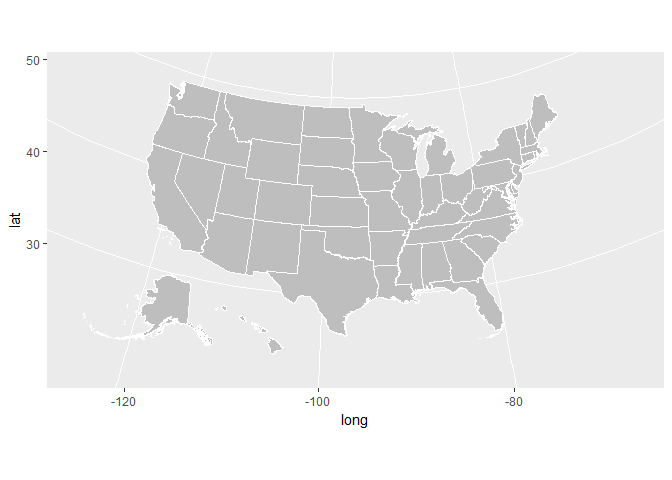
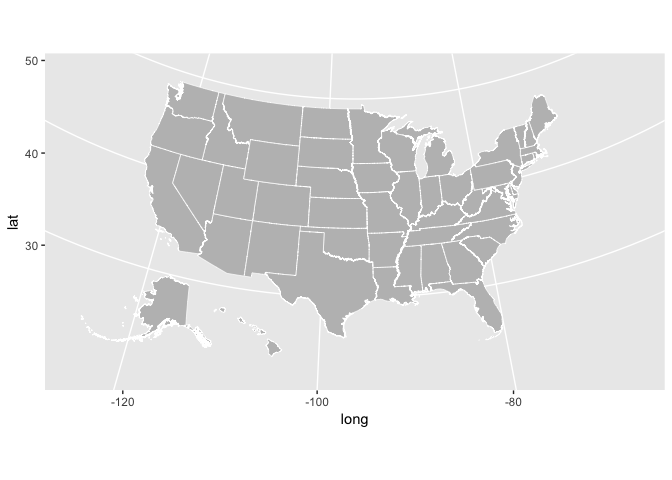
Add counties data and theme to README.Rmd.

diff --git a/README.md b/README.md
@@ -23,7 +23,7 @@ You can install the latest version of `uimapr` from GitHub:
 
 ``` r
 # install.packages(devtools)
-devtools::install_github('UrbanInstitute/uimapr')
+devtools::install_github("UrbanInstitute/uimapr")
 ```
 
 Usage
@@ -37,36 +37,104 @@ Usage
 The `states` and `counties` tibbles can be used with `geom_polygon()` and `coord_map()` to create base maps of the continental United States, with Alaska and Hawaii displayed as insets:
 
 ``` r
-library(ggplot2)
-library(dplyr)
-library(tibble)
-library(magrittr)
+library(tidyverse)
 library(uimapr)
 
 states %>%
   ggplot(aes(long, lat, group = group)) +
-   geom_polygon(fill = "grey", color = "#ffffff", size = 0.25) +
-   coord_map(projection = "albers", lat0 = 39, lat1 = 45)
+    geom_polygon(fill = "grey", color = "#ffffff", size = 0.25) +
+    coord_map(projection = "albers", lat0 = 39, lat1 = 45)
 ```
 
 ![](README_files/figure-markdown_github/blank-state-1.png)
 
+``` r
+counties %>%
+  ggplot(aes(long, lat, group = group)) +
+    geom_polygon(fill = "grey", color = "#ffffff", size = 0.05) +
+    coord_map(projection = "albers", lat0 = 39, lat1 = 45)
+```
+
+![](README_files/figure-markdown_github/blank-county-1.png)
+
 Merging Data
 ------------
 
-The `states` and `counties` tibbles include various identifiers to make merging data easy, which can then be piped into `ggplot2` to create a choropleth map:
+The `states` and `counties` tibbles include various identifiers to simplify merging data. The states `states` tibble contains `state_fips`, `state_abbv`, and `state_name`. The `counties` tibble contains `county_fips`, `state_abbv`, `state_fips`, `county_name`, and `state_name`. Both tibbles can be piped into `ggplot2` to create a choropleth map.
 
 ``` r
 USArrests %>%
-  rownames_to_column('state_name') %>%
+  rownames_to_column("state_name") %>%
   select(state_name, Murder) %>%
-  left_join(states, by = 'state_name') %>%
+  left_join(states, by = "state_name") %>%
   ggplot(aes(long, lat, group = group, fill = Murder)) +
-   geom_polygon(color = "#ffffff") +
-   coord_map(projection = "albers", lat0 = 39, lat1 = 45)
+    geom_polygon(color = "#ffffff") +
+    coord_map(projection = "albers", lat0 = 39, lat1 = 45)
 ```
 
 ![](README_files/figure-markdown_github/us-choropleth-1.png)
+
+``` r
+household_data <- left_join(countydata, counties, by = "county_fips")
+
+anti_join(countydata, counties, by = "county_fips")
+```
+
+    ## # A tibble: 2 x 5
+    ##    year county_fips hhpop horate medhhincome
+    ##   <dbl> <chr>       <dbl>  <dbl>       <dbl>
+    ## 1  2015 02270        2194  0.599       61900
+    ## 2  2015 46113        4721  0.621       46000
+
+``` r
+household_data %>%
+  ggplot(aes(long, lat, group = group, fill = medhhincome)) +
+    geom_polygon(color = "#ffffff", size = 0.05) +
+    coord_map(projection = "albers", lat0 = 39, lat1 = 45)
+```
+
+![](README_files/figure-markdown_github/county-1.png)
+
+Styles
+------
+
+`library(uimapr)` works well with the [Urban Institute `ggplot2` theme.](https://github.com/UrbanInstitute/urban_R_theme)
+
+``` r
+source("https://raw.githubusercontent.com/UrbanInstitute/urban_R_theme/urban_R_theme_revamp/urban_theme.R")
+```
+
+``` r
+USArrests %>%
+  rownames_to_column("state_name") %>%
+  select(state_name, Murder) %>%
+  left_join(states, by = "state_name") %>%
+  ggplot(aes(long, lat, group = group, fill = Murder)) +
+    geom_polygon(color = "#ffffff", size = 0.25) +
+    coord_map(projection = "albers", lat0 = 39, lat1 = 45) +
+    scale_fill_gradientn() +
+    urban_map +
+    theme(legend.position = "right",
+          legend.direction = "vertical",
+          legend.title = element_text(face = "bold", size = 11))
+```
+
+![](README_files/figure-markdown_github/theme-state-1.png)
+
+``` r
+household_data %>%
+  filter(state_name %in% c("Virginia", "Maryland", "District of Columbia")) %>%
+  ggplot(aes(long, lat, group = group, fill = medhhincome)) +
+    geom_polygon(color = "#ffffff", size = 0.05) +
+    coord_map(projection = "albers", lat0 = 39, lat1 = 45) +
+    scale_fill_gradientn(labels = scales::dollar) +
+    urban_map +
+    theme(legend.position = "right",
+          legend.direction = "vertical",
+          legend.title = element_text(face = "bold", size = 11))
+```
+
+![](README_files/figure-markdown_github/theme-counties-1.png)
 
 License
 -------
